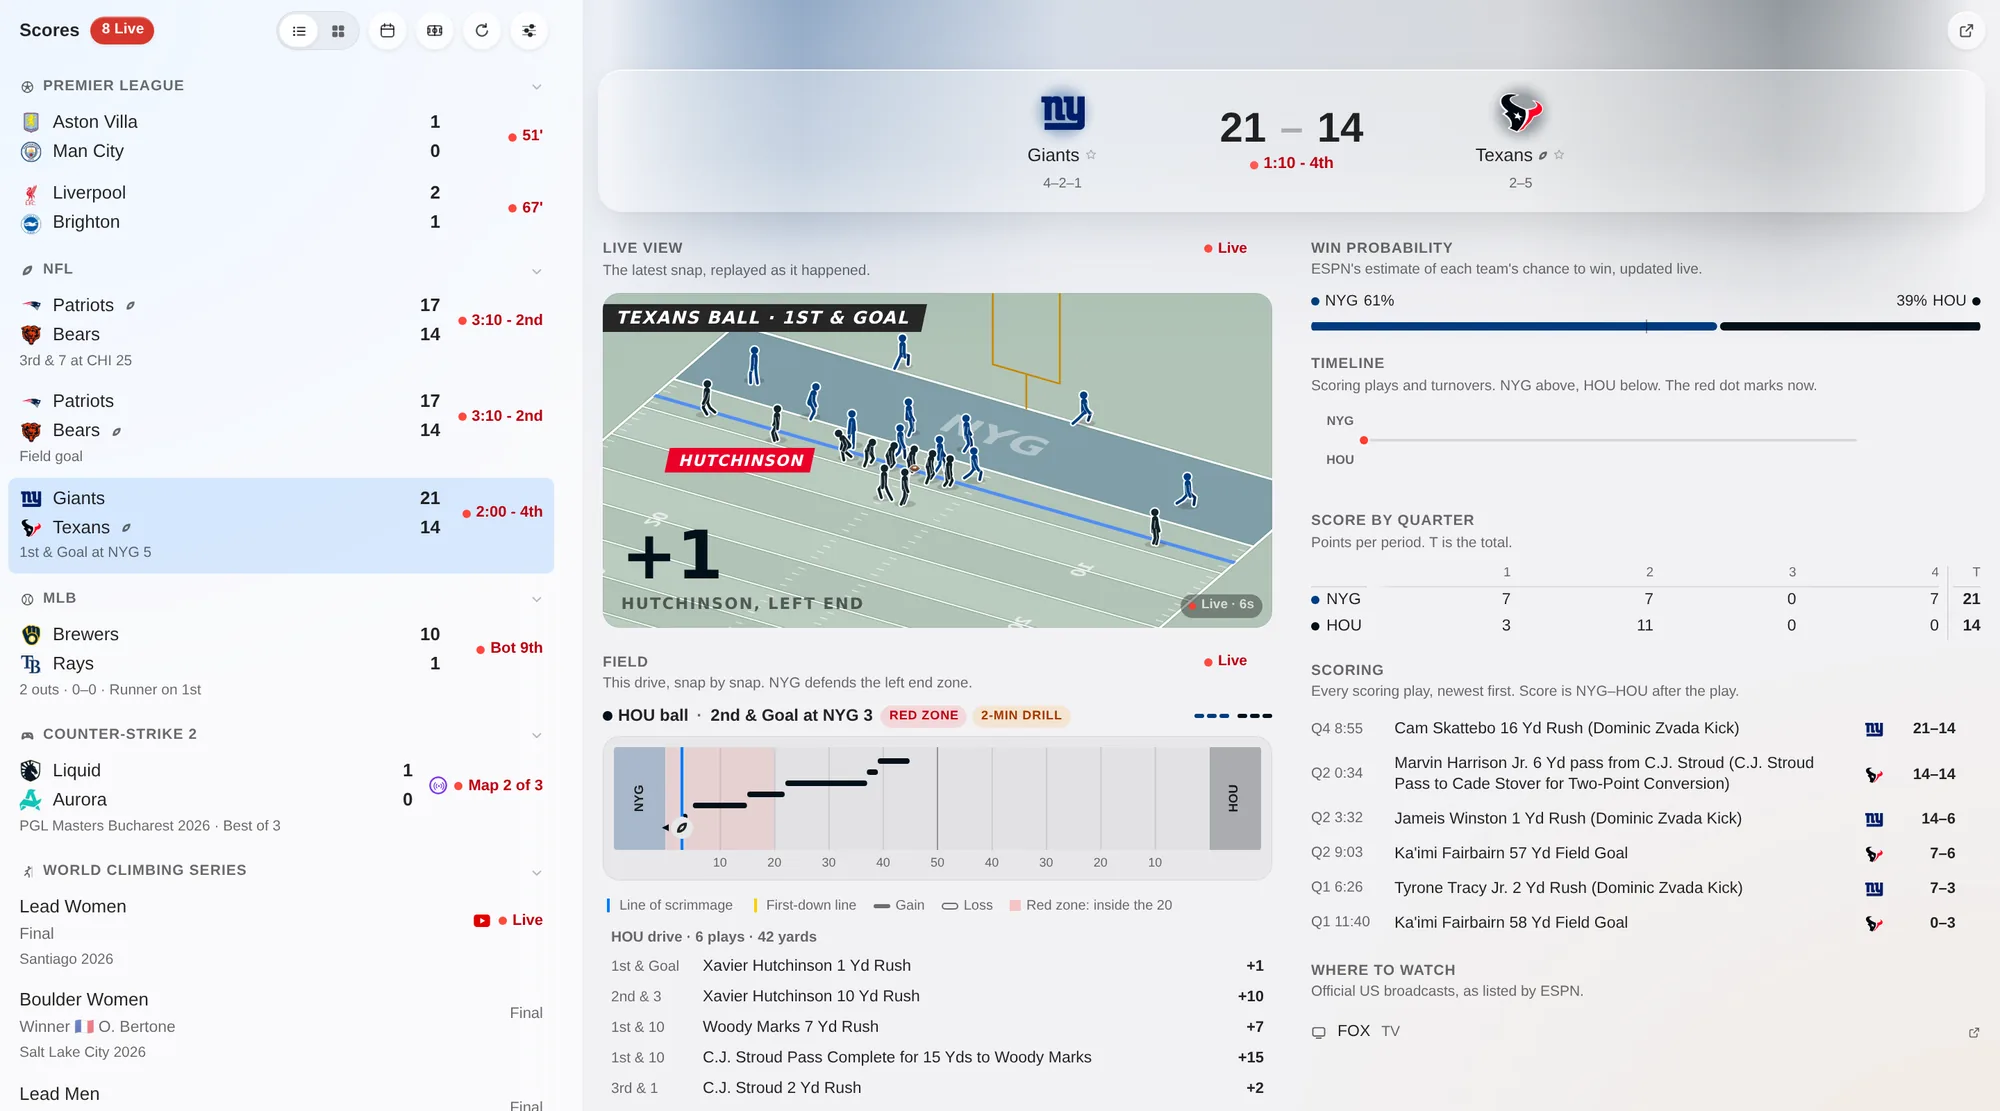
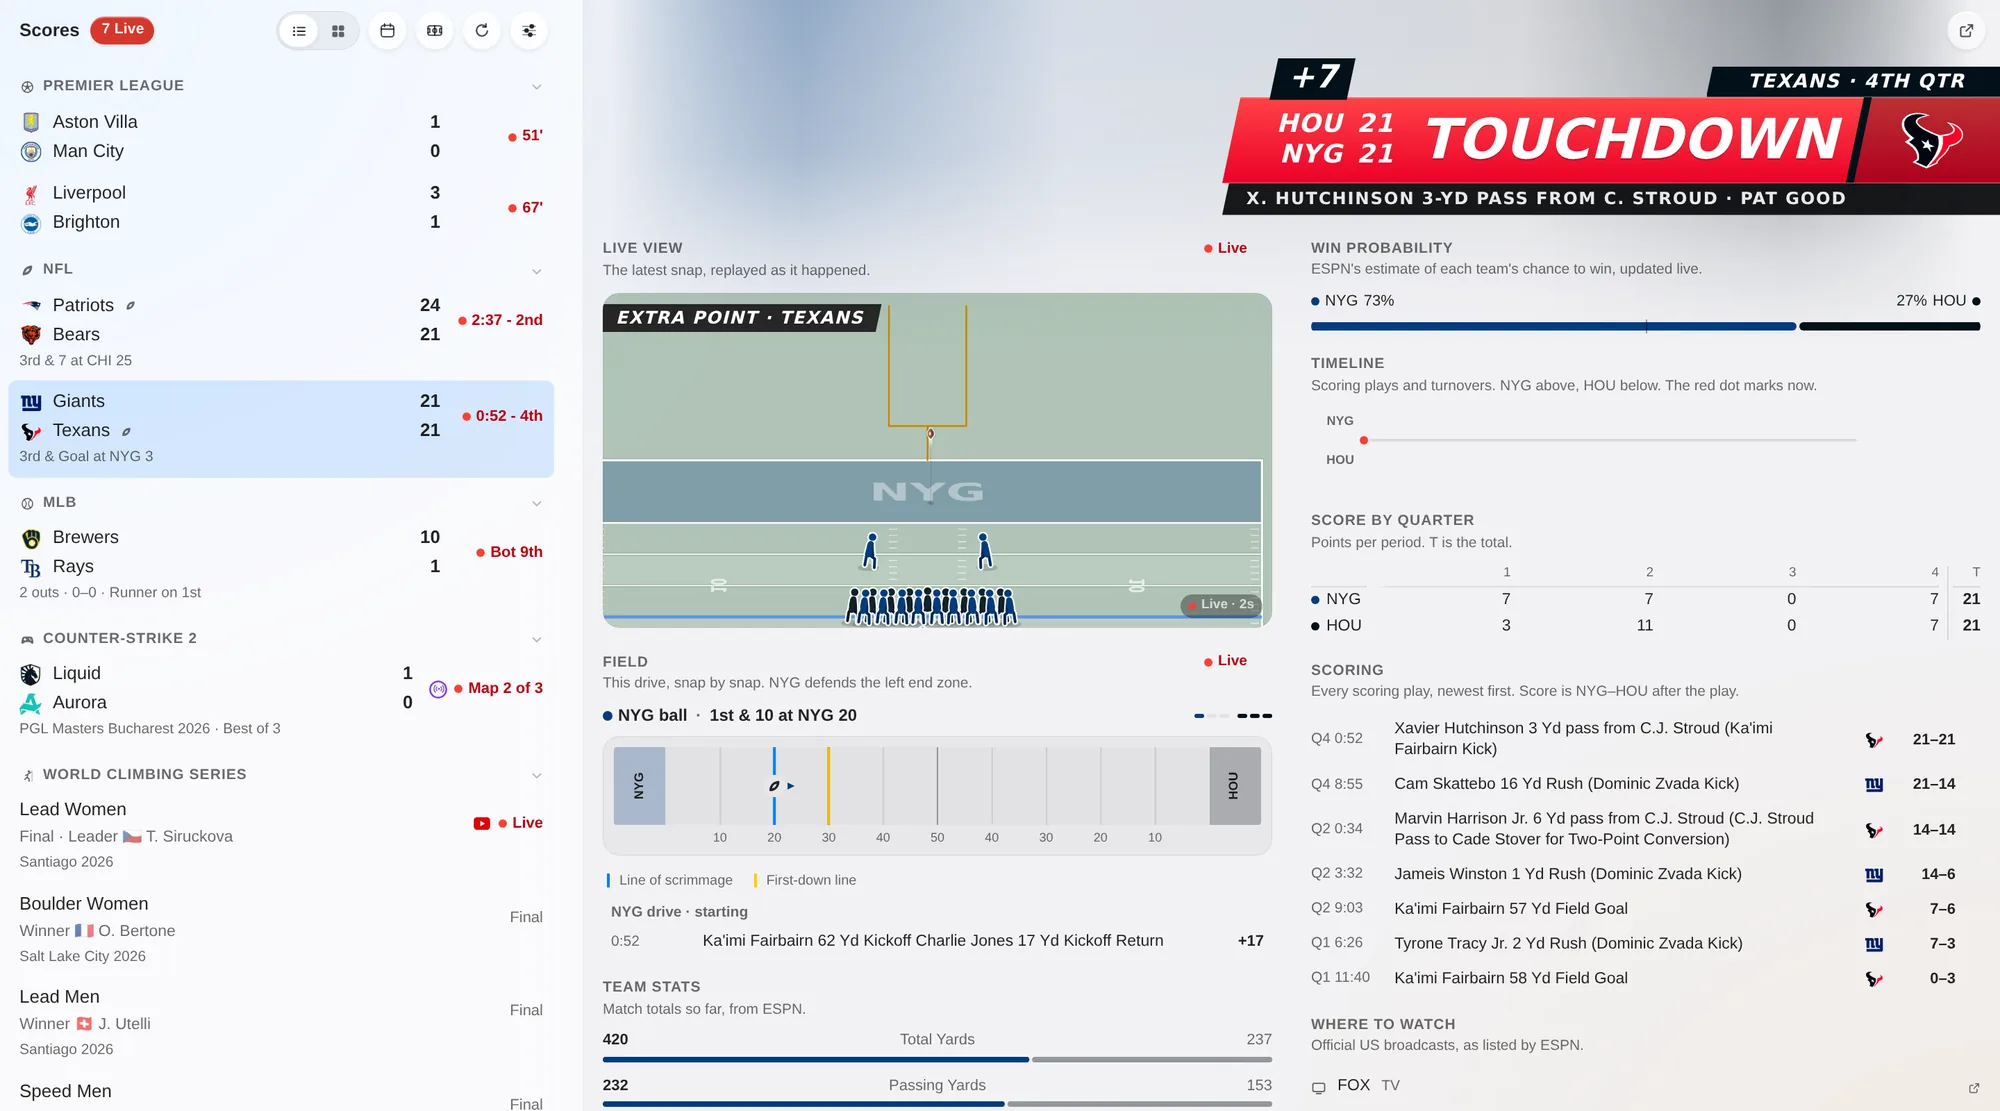
Web: a polish pass before launch: the link card, the landing's shots, Live now
- The link card (og.png) shows a live game page beside the headline, in
  Inter, instead of plain text in whatever font the drawing machine had.
  scripts/make-og.mjs draws it from the landing's own screenshot.
- The landing's screenshots are retaken at the Texans' tying touchdown. The
  demo board no longer lists NE @ CHI twice: the fixture's second copy is the
  unit tests' between-snaps case, now kept off the demo's list.
- With no game open, the desktop pane offers up to three live games, in the
  list's order, a click from open (shell.spec.ts checks it).
- The heartbeat says hours past an hour ("Waiting for ESPN · 3h"), never
  thousands of minutes.
- robots.txt lets crawlers fetch the landing's screenshots.

diff --git a/web/src/app/IndexRoute.tsx b/web/src/app/IndexRoute.tsx
@@ -1,18 +1,65 @@
 /**
  * "/": on a phone, the scores themselves; beside the sidebar, the quiet
- * "no game selected" pane (Mail's "No Message Selected").
+ * "no game selected" pane (Mail's "No Message Selected"). While games are
+ * live, it offers the first few, in the list's order, a click from open.
  */
+import { Link } from "react-router";
 import { EmptyState } from "../design/components";
+import type { ScoreEvent } from "../data/models";
+import { eventHref } from "../data/gameHref";
+import { useScoreboard } from "../state/scores";
 import { ScoresPage } from "../features/scores/ScoresPage";
+import { screenedLine } from "../features/scores/ScoresList";
 import { useSplit } from "./layout";
 import styles from "./IndexRoute.module.css";
+
+/** How many live games the pane offers. */
+const OFFERED = 3;
 
 export function IndexRoute() {
   const split = useSplit();
   if (!split) return <ScoresPage variant="page" />;
+  return <NoGameSelected />;
+}
+
+function NoGameSelected() {
+  // The sidebar's list polls; this reads the same queries.
+  const { sections } = useScoreboard({ poll: false });
+  const seen = new Set<string>();
+  const live: ScoreEvent[] = [];
+  for (const section of sections) {
+    for (const e of section.events) {
+      if (e.state !== "live" || seen.has(e.id)) continue;
+      seen.add(e.id);
+      live.push(e);
+    }
+  }
+  const offered = live.slice(0, OFFERED);
   return (
     <div className={styles.none}>
-      <EmptyState level={1} icon="sportscourt" title="No Game Selected" message="Pick a game from the list. Use ↑ and ↓ to move through the games and Return to open one." />
+      <EmptyState
+        level={1}
+        icon="sportscourt"
+        title="No Game Selected"
+        message="Pick a game from the list. Use ↑ and ↓ to move through the games and Return to open one."
+        note={
+          offered.length > 0 ? (
+            <nav className={styles.live} aria-label="Live now">
+              <h2 className={styles.liveTitle}>Live now</h2>
+              <ul>
+                {offered.map((e) => (
+                  <li key={e.id}>
+                    <Link to={eventHref(e)} state={{ from: "Scores" }} className={styles.game}>
+                      <span className={styles.dot} aria-hidden="true" />
+                      <span className="tabular">{screenedLine(e)}</span>
+                    </Link>
+                  </li>
+                ))}
+              </ul>
+            </nav>
+          ) : null
+        }
+      />
     </div>
   );
 }

diff --git a/web/pages/landing.html b/web/pages/landing.html
@@ -59,7 +59,7 @@
 						<source srcset="/landing/phone-dark.webp" media="(max-width: 40rem) and (prefers-color-scheme: dark)" width="720" height="1292" />
 						<source srcset="/landing/phone-light.webp" media="(max-width: 40rem)" width="720" height="1292" />
 						<source srcset="/landing/game-dark.webp" media="(prefers-color-scheme: dark)" width="2000" height="1111" />
-						<img src="/landing/game-light.webp" width="2000" height="1111" alt="Scoreline on a desktop: the scores list beside a live NFL game page, Giants 21, Texans 14, with the play replayed on an animated field, win probability, the drive chart and every scoring play." fetchpriority="high" decoding="async" />
+						<img src="/landing/game-light.webp" width="2000" height="1111" alt="Scoreline on a desktop: the scores list beside a live NFL game page as the Texans tie the Giants 21–21 with 52 seconds left, the touchdown banner across the page, the extra point on the animated field, win probability, the drive chart and every scoring play." fetchpriority="high" decoding="async" />
 					</picture>
 				</div>
 			</figure>
@@ -92,7 +92,7 @@
 					<figure class="phone">
 						<picture>
 							<source srcset="/landing/phone-dark.webp" media="(prefers-color-scheme: dark)" />
-							<img src="/landing/phone-light.webp" width="720" height="1292" alt="The same game on a phone: the score, and the Texans' 10-yard run for a first down on the animated field." loading="lazy" decoding="async" />
+							<img src="/landing/phone-light.webp" width="720" height="1292" alt="The same game on a phone: tied 21–21 with 52 seconds left, and Fairbairn's extra point, good, on the animated field." loading="lazy" decoding="async" />
 						</picture>
 					</figure>
 				</div>

diff --git a/web/src/app/IndexRoute.module.css b/web/src/app/IndexRoute.module.css
@@ -5,3 +5,62 @@
   height: 100dvh;
   padding-bottom: 8vh;
 }
+
+/* Live now: up to three games, as quiet rows under the message. */
+.live {
+  width: min(calc(320 * var(--pt)), 100%);
+  margin-top: calc(18 * var(--pt));
+  text-align: left;
+}
+
+.live ul {
+  margin: 0;
+  padding: 0;
+  list-style: none;
+}
+
+.liveTitle {
+  margin: 0 0 calc(4 * var(--pt));
+  padding: 0 calc(10 * var(--pt));
+  color: var(--label-secondary);
+  font-size: var(--text-caption);
+  font-weight: 600;
+  letter-spacing: 0.04em;
+  text-transform: uppercase;
+}
+
+.game {
+  display: flex;
+  align-items: center;
+  gap: calc(8 * var(--pt));
+  padding: calc(7 * var(--pt)) calc(10 * var(--pt));
+  border-radius: var(--radius-row);
+  color: var(--label);
+  font-size: var(--text-callout);
+  text-decoration: none;
+}
+
+.game span:last-child {
+  overflow: hidden;
+  text-overflow: ellipsis;
+  white-space: nowrap;
+}
+
+@media (hover: hover) and (pointer: fine) {
+  .game:hover {
+    background: var(--fill-hover);
+    text-decoration: none;
+  }
+}
+
+.game:active {
+  background: var(--fill-press);
+}
+
+.dot {
+  flex: none;
+  width: calc(6 * var(--pt));
+  height: calc(6 * var(--pt));
+  border-radius: 50%;
+  background: var(--live);
+}

diff --git a/web/test/e2e/shell.spec.ts b/web/test/e2e/shell.spec.ts
@@ -199,6 +199,19 @@ test.describe("1440 light: keys, sections and Settings", () => {
     await expect.poll(() => main.evaluate((m) => Math.round(m.scrollTop))).toBeGreaterThan(250);
   });
 
+  test("with nothing open, the pane offers the live games, and one opens", async ({ page }) => {
+    await withSettings(page, LEAGUES);
+    await page.goto("/?demo");
+    await waitForGames(page);
+    const live = page.getByRole("navigation", { name: "Live now" });
+    const games = live.getByRole("link");
+    await expect(games.first()).toBeVisible();
+    expect(await games.count()).toBeLessThanOrEqual(3);
+    await games.first().click();
+    await expect(page).toHaveURL(/\/game\//);
+    await expect(live).toHaveCount(0);
+  });
+
   test("tiles: the round race, the pin and Up Next's schedule link", async ({ page }) => {
     await withSettings(page, { ...LEAGUES, landingView: "tiles" });
     // The demo's boards were recorded on Oct 27: with the page's clock there, their next games are ahead (Up Next), whatever today is.

diff --git a/web/src/data/demo.ts b/web/src/data/demo.ts
@@ -726,7 +726,8 @@ const demo: Fetcher = async (url) => {
     if (path.includes("football/nfl")) {
       const replayed = await footballBoardEvent();
       return Promise.all([fixture("espn-nfl-live.synthetic.json"), fixture("espn-nfl-scoreboard.json")]).then(([a, b]) =>
-        animate({ events: [replayed, ...(a.events as []), ...(b.events as [])] }, path),
+        // The fixture's second NE @ CHI (401873099) is the unit tests' between-snaps copy: on the board it'd show the game twice.
+        animate({ events: [replayed, ...(a.events as { id?: string }[]).filter((e) => e.id !== "401873099"), ...(b.events as [])] }, path),
       );
     }
     if (path.includes("baseball/mlb")) return live("espn-mlb-live.synthetic.json", "espn-mlb-scoreboard.json");

diff --git a/web/src/features/game/core/theater/TheaterStatus.tsx b/web/src/features/game/core/theater/TheaterStatus.tsx
@@ -55,10 +55,11 @@ export function TheaterStatusTag({ tag, tint, height }: { tag: string | null; ti
   );
 }
 
-/** "Live · 4s", "Live · 45s", then "Waiting for ESPN · 2m". (pure; tested) */
+/** "Live · 4s", "Live · 45s", "Waiting for ESPN · 2m", then hours ("· 3h", a rain delay), never thousands of minutes. (pure; tested) */
 export function heartbeatLabel(seconds: number, source: string): string {
   if (seconds < 60) return `Live · ${seconds}s`;
-  return `Waiting for ${source} · ${Math.floor(seconds / 60)}m`;
+  const minutes = Math.floor(seconds / 60);
+  return `Waiting for ${source} · ${minutes < 60 ? `${minutes}m` : `${Math.floor(minutes / 60)}h`}`;
 }
 
 /**

diff --git a/web/test/unit/theaterStatus.test.ts b/web/test/unit/theaterStatus.test.ts
@@ -10,6 +10,8 @@ describe("theater status", () => {
     expect(heartbeatLabel(4, "ESPN")).toBe("Live · 4s");
     expect(heartbeatLabel(59, "ESPN")).toBe("Live · 59s");
     expect(heartbeatLabel(125, "ESPN")).toBe("Waiting for ESPN · 2m");
+    expect(heartbeatLabel(59 * 60 + 59, "ESPN")).toBe("Waiting for ESPN · 59m");
+    expect(heartbeatLabel(3 * 3600 + 120, "ESPN")).toBe("Waiting for ESPN · 3h");
   });
 
   it("sizes the tag from the well and keys the flip by game", () => {
